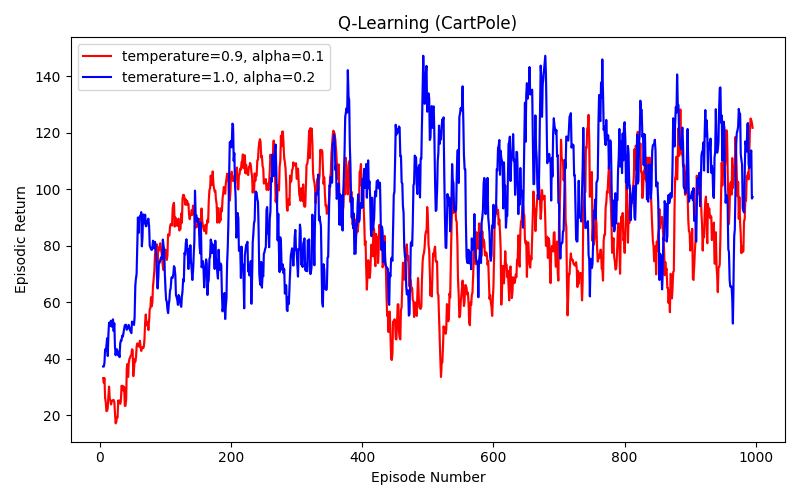
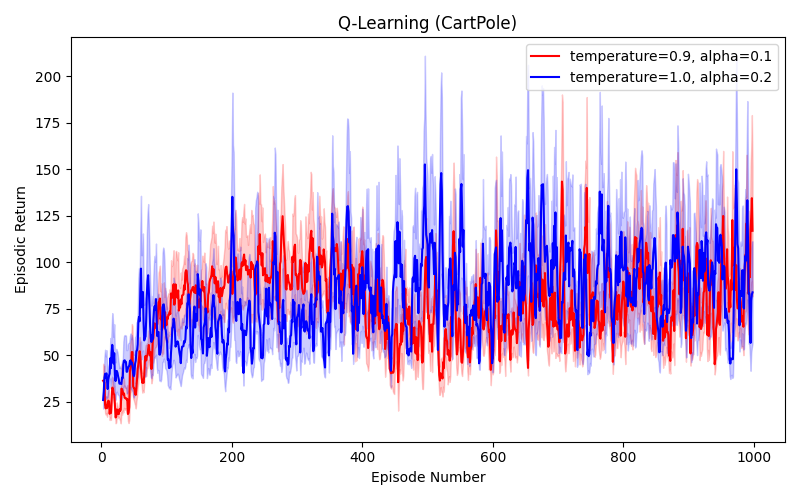
updated

diff --git a/plot_two_q.py b/plot_two_q.py
@@ -1,6 +1,6 @@
 import matplotlib.pyplot as plt
 import numpy as np
-from q_runner import run_qlearning  # Updated from run_sarsa
+from q_runner import run_qlearning  
 
 def moving_average(data, window_size=10):
     """Applies a simple moving average to smooth the data."""
@@ -25,7 +25,7 @@ def plot_two_qlearning_results(
         sm_std1  = moving_average(std1, smooth_window)
         sm_mean2 = moving_average(mean2, smooth_window)
         sm_std2  = moving_average(std2, smooth_window)
-        sm_episodes = episodes[(smooth_window-1)//2 : -(smooth_window//2)]
+        sm_episodes = episodes[(smooth_window-1)//2 : -(smooth_window//2)] if smooth_window > 1 else episodes
     else:
         sm_mean1, sm_std1 = mean1, std1
         sm_mean2, sm_std2 = mean2, std2
@@ -37,17 +37,17 @@ def plot_two_qlearning_results(
     plt.plot(sm_episodes, sm_mean1, color='red', label=f'temperature={temperature1}, alpha={alpha1}')
     plt.fill_between(
         sm_episodes,
-        sm_mean1 - .9*sm_std1,
-        sm_mean1 + .9*sm_std1,
+        sm_mean1 - sm_std1,
+        sm_mean1 + sm_std1,
         color='red', alpha=0.2
     )
 
     # --- Type 2 (Blue) ---
-    plt.plot(sm_episodes, sm_mean2, color='blue', label=f'temerature={temperature2}, alpha={alpha2}')
+    plt.plot(sm_episodes, sm_mean2, color='blue', label=f'temperature={temperature2}, alpha={alpha2}')
     plt.fill_between(
         sm_episodes,
-        sm_mean2 - .9*sm_std2,
-        sm_mean2 + .9*sm_std2,
+        sm_mean2 - sm_std2,
+        sm_mean2 + sm_std2,
         color='blue', alpha=0.2
     )
 
@@ -65,7 +65,7 @@ if __name__ == "__main__":
     alpha2, gamma2, temperature2 = 0.2, 0.9, 1.0
 
     env_name = "CartPole-v1"
-    seeds = [100, 100, 100, 100, 100]
+    seeds = [100, 200, 100, 100, 100]
     num_episodes = 1000
     num_steps = 500
     num_bins = 20
@@ -89,6 +89,6 @@ if __name__ == "__main__":
         episodes,
         mean1, std1,
         mean2, std2,
-        smooth_window=10,
+        smooth_window=5,
         title="Q-Learning (CartPole)"
     )
